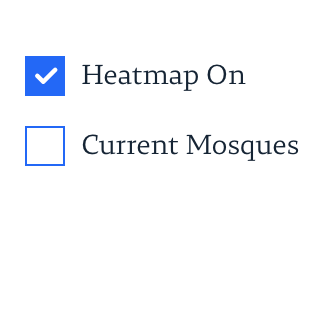
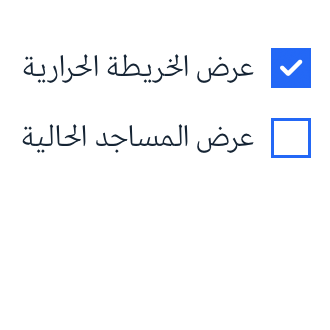
updated arabic text for search modal

Changed region(s): [[0.0606, 0.3333, 0.9394, 0.5152], [0.0606, 0.1515, 0.7576, 0.303], [0.8182, 0.1212, 0.9394, 0.2727]]

diff --git a/components/core/search/search-map/search-map-info-window/search-map-info-window.vue b/components/core/search/search-map/search-map-info-window/search-map-info-window.vue
@@ -17,8 +17,8 @@
         <p class="search-info__desc">
           {{ message }}
           <br />
-          Latitude: {{ content.lat }}<br />
-          Longitude: {{ content.lng }}
+           {{ content.lat }} خط الطول <br />
+           {{ content.lng }} خط العرض 
         </p>
       </div>
     </div>

diff --git a/components/core/search/search-sidebar/search-sidebar.vue b/components/core/search/search-sidebar/search-sidebar.vue
@@ -67,7 +67,7 @@
             <span class="control__indicator"></span>
             <span>
               {{ $t("pages.search.sidebar.heatmap") }}
-              {{ heatmap ? "On" : "Off" }}
+
             </span>
           </label>
         </div>
